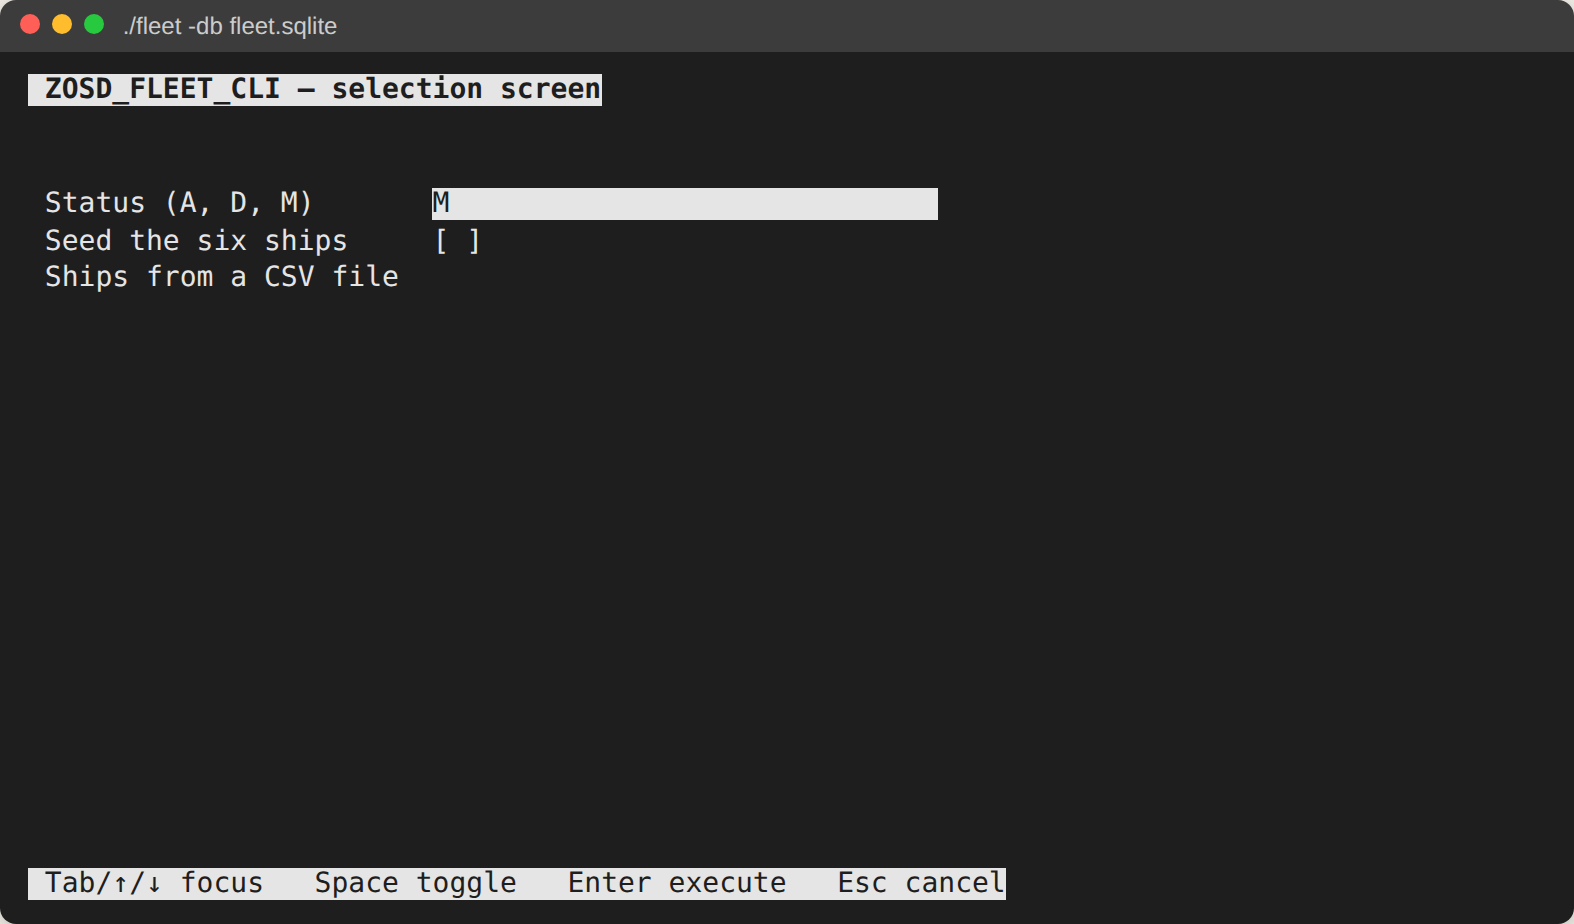
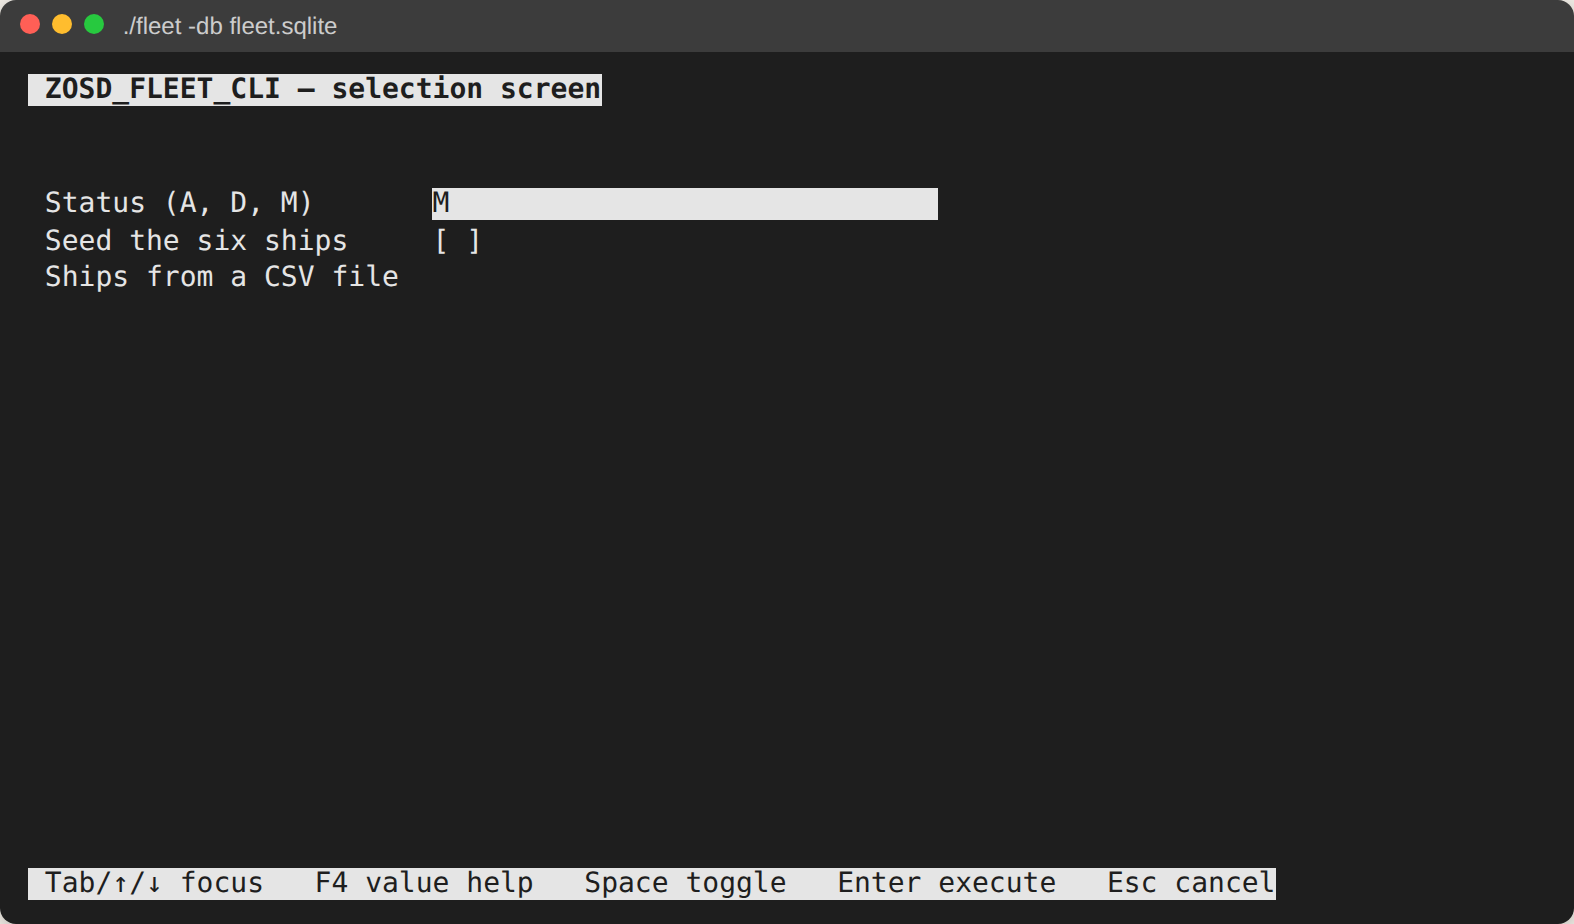
Chapter 14: F4 picks a file, a second report lists the CSV
ZOSD_FLEET_CSV (cli/csv): F4 on P_FILE opens the frontend file dialog,
which the terminal form shows as a file browser; GUI_UPLOAD reads the
chosen file; the list takes its headings from the first line
(LINE-SIZE 72). test/cli.mjs builds it and checks the list (empty lines
ignored: at the book's tag osabap prints one after ULINE, removed later
in open-steamgate #809) and the refusal without -allow-read.
test/cli-shots.mjs adds csv-form, csv-f4 and csv-list; tui-form is
re-taken at the tag, whose footer now shows F4.

EN/RU: the new section, the limits line (F4 exists; F1, popups and
interactive lists do not), osabap docs pinned to the tag; preface and
README rows.

Changed region(s): [[0.5292, 0.9394, 0.8094, 1.0], [0.1868, 0.9394, 0.4981, 0.9697]]

diff --git a/book/ru/14-cli.md b/book/ru/14-cli.md
@@ -105,6 +105,73 @@ number; nothing loaded`, и ни один корабль из файла не с
 прочитанные из `zosd_fleet_cli.prog.xml` при сборке, те же, что показывает
 `-help`.
 
+## Файл, выбранный по F4
+
+Отчет флота читает свой CSV через `OPEN DATASET`: файл, который программа
+называет по пути, как файл на сервере приложений. Отчет, который просит
+пользователя выбрать файл, в системе устроен иначе: F4 на параметре открывает
+файловый диалог фронтенда, а программа читает выбранный файл с фронтенда через
+`GUI_UPLOAD`. Второй отчет этой главы,
+[ZOSD_FLEET_CSV](../../cli/csv/zosd_fleet_csv.prog.abap), делает ровно это и
+показывает файл простым списком, заголовки колонок берутся из его первой
+строки:
+
+<!-- code: cli/csv/zosd_fleet_csv.prog.abap lines 22-41 -->
+```abap
+AT SELECTION-SCREEN ON VALUE-REQUEST FOR p_file.
+  DATA lt_files  TYPE filetable.
+  DATA lv_rc     TYPE i.
+  DATA lv_action TYPE i.
+  cl_gui_frontend_services=>file_open_dialog(
+    EXPORTING window_title = 'Choose a CSV file'
+              file_filter  = 'CSV (*.csv)|*.csv|All (*.*)|*.*'
+    CHANGING  file_table   = lt_files
+              rc           = lv_rc
+              user_action  = lv_action ).
+  IF lv_action = cl_gui_frontend_services=>action_ok AND lv_rc > 0.
+    READ TABLE lt_files INDEX 1 INTO DATA(ls_file).
+    p_file = ls_file-filename.
+  ENDIF.
+
+START-OF-SELECTION.
+  cl_gui_frontend_services=>gui_upload(
+    EXPORTING filename = p_file
+              filetype = 'ASC'
+    CHANGING  data_tab = gt_lines ).
+```
+
+`test/cli.mjs` собирает его рядом с программой флота, в `run/fleet-csv`, и
+кладет два CSV-файла в `/tmp/fleet-cli/data`.
+
+1. `./fleet-csv -allow-read /tmp/fleet-cli/data`. Ожидаемо: форма с одним
+   полем.
+
+   ![Экран выбора отчета CSV](../img/csv-form.png)
+
+2. F4 на поле. Ожидаемо: файловый браузер в терминале, в папке, которую
+   разрешает доступ, и ничего за ее пределами. Стрелки двигают, Enter
+   открывает папку или выбирает файл, `/` фильтрует, Esc отменяет.
+
+   ![F4: файловый браузер в терминале, в разрешенной папке](../img/csv-f4.png)
+
+3. Enter на `fleet.csv`, затем Enter для запуска. Ожидаемо: выбранный путь
+   возвращается в поле, затем список: заголовки из первой строки файла, шесть
+   кораблей, `6 rows, 5 columns`.
+
+   ![CSV в виде списка](../img/csv-list.png)
+
+4. Без экрана, из той же папки:
+   `../run/fleet-csv --p-file fleet.csv -allow-read /tmp/fleet-cli/data`
+   печатает тот же список. Без `-allow-read` программа пишет `osabap:
+   permission denied` в stderr и выходит с кодом 1: файловый диалог и
+   `GUI_UPLOAD` живут в той же песочнице, что и `DATASET`, поэтому файл вне
+   разрешенного нельзя ни увидеть в списке, ни прочитать.
+
+На теге этой книги в списке есть пустая строка после каждой из двух первых
+черт, а итог сдвинут на четыре пробела. open-steamgate убрал и то и другое
+уже после тега, в
+[PR #809](https://github.com/oisee/open-steamgate/pull/809).
+
 ## Родственник: экраны в CICS
 
 Экран выбора и dynpro - изобретения SAP, но у их устройства есть близкий
@@ -140,17 +207,19 @@ IBM по CICS описывает псевдодиалоговую обработ
   внутри корней, которые разрешают `-allow-read` / `-allow-write`.
 - **Классы** рядом с отчетом или из папок `--lib`; классы open-abap-core,
   которые он называет, подтягиваются сами.
-- **Один экран выбора и один запуск** на процесс; справки F4, всплывающих окон
-  и интерактивных списков (`AT LINE-SELECTION`) пока нет; HTTP, OData и ICF
-  нет.
+- **Один экран выбора и один запуск** на процесс. F4 выполняет
+  `AT SELECTION-SCREEN ON VALUE-REQUEST` в форме терминала, а файловые
+  диалоги фронтенда открывают там файловый браузер (не в режиме `-sapgui`);
+  F1, всплывающих окон и интерактивных списков (`AT LINE-SELECTION`) пока
+  нет; HTTP, OData и ICF нет.
 - **Как в системе**: в шаблоне `CP` символ `#` - экранирующий, поэтому
   строка, начинающаяся с `#`, это `CP '##*'`, а не `CP '#*'`. **Не как в
   системе**: экран выбора переводит `--status m` в верхний регистр, а
   командная строка нет, поэтому отчет делает это сам через `TRANSLATE`.
 
 Спецификация - в
-[docs/osabap-native.md](https://github.com/oisee/open-steamgate/blob/main/docs/osabap-native.md)
-open-steamgate.
+[docs/osabap-native.md](https://github.com/oisee/open-steamgate/blob/vscode-stable-v0.7.1696/docs/osabap-native.md) open-steamgate, у F4 своя,
+[docs/osabap-f4.md](https://github.com/oisee/open-steamgate/blob/vscode-stable-v0.7.1696/docs/osabap-f4.md).
 
 ## Под капотом
 

diff --git a/book/14-cli.md b/book/14-cli.md
@@ -104,6 +104,73 @@ instead, so the same binary works in scripts. The labels are the report's
 selection texts, read from `zosd_fleet_cli.prog.xml` at build time, the same
 ones `-help` shows.
 
+## A file chosen with F4
+
+The fleet report reads its CSV with `OPEN DATASET`: a file the program names
+by path, as a file on the application server would be. A report that asks the
+user for a file works differently on a system: F4 on the parameter opens the
+frontend's file dialog, and the program reads the chosen file from the
+frontend with `GUI_UPLOAD`. The second report of this chapter,
+[ZOSD_FLEET_CSV](../cli/csv/zosd_fleet_csv.prog.abap), does exactly that and
+shows the file as a simple list, the column headings taken from its first
+line:
+
+<!-- code: cli/csv/zosd_fleet_csv.prog.abap lines 22-41 -->
+```abap
+AT SELECTION-SCREEN ON VALUE-REQUEST FOR p_file.
+  DATA lt_files  TYPE filetable.
+  DATA lv_rc     TYPE i.
+  DATA lv_action TYPE i.
+  cl_gui_frontend_services=>file_open_dialog(
+    EXPORTING window_title = 'Choose a CSV file'
+              file_filter  = 'CSV (*.csv)|*.csv|All (*.*)|*.*'
+    CHANGING  file_table   = lt_files
+              rc           = lv_rc
+              user_action  = lv_action ).
+  IF lv_action = cl_gui_frontend_services=>action_ok AND lv_rc > 0.
+    READ TABLE lt_files INDEX 1 INTO DATA(ls_file).
+    p_file = ls_file-filename.
+  ENDIF.
+
+START-OF-SELECTION.
+  cl_gui_frontend_services=>gui_upload(
+    EXPORTING filename = p_file
+              filetype = 'ASC'
+    CHANGING  data_tab = gt_lines ).
+```
+
+`test/cli.mjs` builds it beside the fleet program, into `run/fleet-csv`, and
+keeps two CSV files in `/tmp/fleet-cli/data`.
+
+1. `./fleet-csv -allow-read /tmp/fleet-cli/data`. Expected: the form, with
+   one field.
+
+   ![The CSV report's selection screen](img/csv-form.png)
+
+2. F4 on the field. Expected: a file browser in the terminal, at the folder
+   the grant allows and nothing outside it. Arrows move, Enter opens a folder
+   or chooses a file, `/` filters, Esc cancels.
+
+   ![F4: the terminal file browser at the granted folder](img/csv-f4.png)
+
+3. Enter on `fleet.csv`, then Enter to run. Expected: the chosen path back in
+   the field, then the list: the headings from the file's first line, the six
+   ships, `6 rows, 5 columns`.
+
+   ![The CSV as a list](img/csv-list.png)
+
+4. Without a screen, from that folder:
+   `../run/fleet-csv --p-file fleet.csv -allow-read /tmp/fleet-cli/data`
+   prints the same list. Without `-allow-read` it prints `osabap: permission
+   denied` on stderr and exits with 1: the file dialog and `GUI_UPLOAD` use the
+   same sandbox as `DATASET`, so a file outside the grant can be neither listed
+   nor read.
+
+At this book's tag the list has an empty line after each of the first two
+rules and the count is indented by four spaces. open-steamgate removed both
+after the tag, in
+[PR #809](https://github.com/oisee/open-steamgate/pull/809).
+
 ## A relative: screens in CICS
 
 The selection screen and the dynpro are SAP's, but the way they work has a
@@ -139,15 +206,19 @@ layer in 4.6 (p. 104–106).
   inside the roots `-allow-read` / `-allow-write` grant.
 - **Classes** beside the report or from `--lib` folders; open-abap-core
   classes it names come along.
-- **One selection screen and one run** per process; no F4 value help, popups
-  or interactive lists (`AT LINE-SELECTION`) yet; no HTTP, OData or ICF.
+- **One selection screen and one run** per process. F4 runs
+  `AT SELECTION-SCREEN ON VALUE-REQUEST` in the terminal form, and the
+  frontend file dialogs open a file browser there (not in `-sapgui` mode);
+  no F1, popups or interactive lists (`AT LINE-SELECTION`) yet; no HTTP,
+  OData or ICF.
 - **Like a system**: a pattern in `CP` uses `#` as its escape character, so a
   line starting with `#` is `CP '##*'`, not `CP '#*'`. **Unlike one**: a
   selection screen upper-cases `--status m`, the command line does not, so
   the report does it with `TRANSLATE`.
 
 The specification is open-steamgate's
-[docs/osabap-native.md](https://github.com/oisee/open-steamgate/blob/main/docs/osabap-native.md).
+[docs/osabap-native.md](https://github.com/oisee/open-steamgate/blob/vscode-stable-v0.7.1696/docs/osabap-native.md), and F4 has its own,
+[docs/osabap-f4.md](https://github.com/oisee/open-steamgate/blob/vscode-stable-v0.7.1696/docs/osabap-f4.md).
 
 ## Under the hood
 

diff --git a/book/ru/00-preface.md b/book/ru/00-preface.md
@@ -75,7 +75,7 @@ ABAP Unit: тесты запускаются клавишами Ctrl+Shift+F10, 
 | За пределами песочницы | 7 Перенос в систему | zip-архив abapGit с тем, что может переноситься в систему |
 | Эксплуатация | 8 Журнал приложения, 9 Фоновые задания | журналы BAL, задание, цепочка заданий, «доктор» |
 | Код, который пишет код | 10 Сгенерированный код, 11 Lift, 12 Правила, 13 Трассировка | шаблоны и трассировки (L0, L1, L2), поднятая процедура, правило флота, скомпилированное в ABAP вместе с доказательством, одна строка, прослеженная до правила |
-| Вне сервера | 14 Мой ABAP сбежал | отчет, скомпилированный в нативную программу командной строки и форму в терминале |
+| Вне сервера | 14 Мой ABAP сбежал | отчет, скомпилированный в нативную программу командной строки и форму в терминале; F4 открывает файловый браузер в терминале, а второй отчет показывает выбранный CSV списком |
 | Рабочее место | 15 От службы к коду | представление System, запросы `.http` с методом DPC, вызов из кода с HTTP-ответом, кто использует класс |
 | Оркестрация | 16 Ночной набор, 17 Регулятор | набор правил в YAML (DSL L3): этап-фильтр, рабочий список, стопки как задания, шлюз, открывающий следующий этап один раз, ночное расписание; бюджет открытых сообщений на прогон, который останавливает его, пока человек не продолжит с причиной |
 | Потому что можем | 18 JavaScript и C в ABAP | QuickJS, работающий как ABAP на настоящем ядре (результат abapiti); в вашей песочнице — функция на C, собранная в WebAssembly и abapiti в класс ABAP, рисует множество Мандельброта в консоли classrun байт в байт как нативный C |

diff --git a/README.md b/README.md
@@ -33,7 +33,7 @@ From an open-steamgate checkout the same pack runs in a terminal: `OSD_PACKS=/pa
 | 11 | [Lift a legacy routine](book/11-lift.md) | [Lift](book/ru/11-lift.md) | a SELECT in a loop rewritten from a model, proven equal | `ZCL_OSD_FLEET_LIFT` |
 | 12 | [Rules, code and proof](book/12-rules.md) | [Правила](book/ru/12-rules.md) | a fleet rule in YAML compiled to ABAP, proven by its examples | `ZCL_OSD_FLEET_L2_MAINT` |
 | 13 | [Where did this line come from?](book/13-trace.md) | [Трассировка](book/ru/13-trace.md) | one generated line followed back to its rule line | `*.trace.json`, `*.trace.meta.json` |
-| 14 | [My ABAP escaped from the server](book/14-cli.md) | [Сбежал с сервера](book/ru/14-cli.md) | a report compiled into a native CLI and terminal form, its own SQLite file | `ZOSD_FLEET_CLI` (`cli/`) |
+| 14 | [My ABAP escaped from the server](book/14-cli.md) | [Сбежал с сервера](book/ru/14-cli.md) | a report compiled into a native CLI and terminal form, its own SQLite file; F4 picks a CSV, a second report lists it | `ZOSD_FLEET_CLI`, `ZOSD_FLEET_CSV` (`cli/`) |
 | 15 | [The workbench](book/15-vscode.md) | [Рабочее место](book/ru/15-vscode.md) | from a service to its code and back in VS Code: the System view, `.http` requests, a call to its HTTP answer | `http/fleet.http` |
 | 16 | [Orchestration: the night set](book/16-orchestration.md) | [Оркестрация](book/ru/16-orchestration.md) | a set of rules in stages: a filter fills a worklist, piles run as jobs, a gate opens the next stage once, a nightly schedule | `ZCL_OSD_FLEET_NIGHT` (`src/l3/`) |
 | 17 | [The governor](book/17-governor.md) | [Регулятор](book/ru/17-governor.md) | a budget of open alerts per run: the run stops at its glass, a person continues it with a reason | `ZCL_OSD_FLEET_WATCH` (`src/l3/`) |

diff --git a/book/00-preface.md b/book/00-preface.md
@@ -74,7 +74,7 @@ match for Activate.
 | Out of the sandbox | 7 Take it to a system | an abapGit zip with what may travel |
 | Operations | 8 Business log, 9 Background jobs | BAL logs, a job, a job chain, a doctor |
 | Code that writes code | 10 Generated code, 11 Lift, 12 Rules, 13 Trace | templates and traces (L0, L1, L2), a lifted routine, a fleet rule compiled to ABAP with its proof, one line traced back to the rule |
-| Out of the server | 14 My ABAP escaped | a report compiled into a native command line program and terminal form |
+| Out of the server | 14 My ABAP escaped | a report compiled into a native command line program and terminal form; F4 opens a file browser in the terminal, and a second report shows the chosen CSV as a list |
 | The workbench | 15 From a service to its code | the System view, `.http` requests resolved to their DPC method, a call from the code to its HTTP answer, the readers of a class |
 | Orchestration | 16 The night set, 17 The governor | a set of rules in YAML (DSL L3): a filter stage, a worklist, piles run as jobs, a gate that opens the next stage once, a nightly schedule; a budget of open alerts per run that stops it until a person continues it with a reason |
 | Because we can | 18 JavaScript and C in ABAP | QuickJS running as ABAP on a real kernel (abapiti's result); in your sandbox, a C function compiled to WebAssembly and by abapiti to an ABAP class, drawing the Mandelbrot set in the classrun console, byte for byte as native C |
